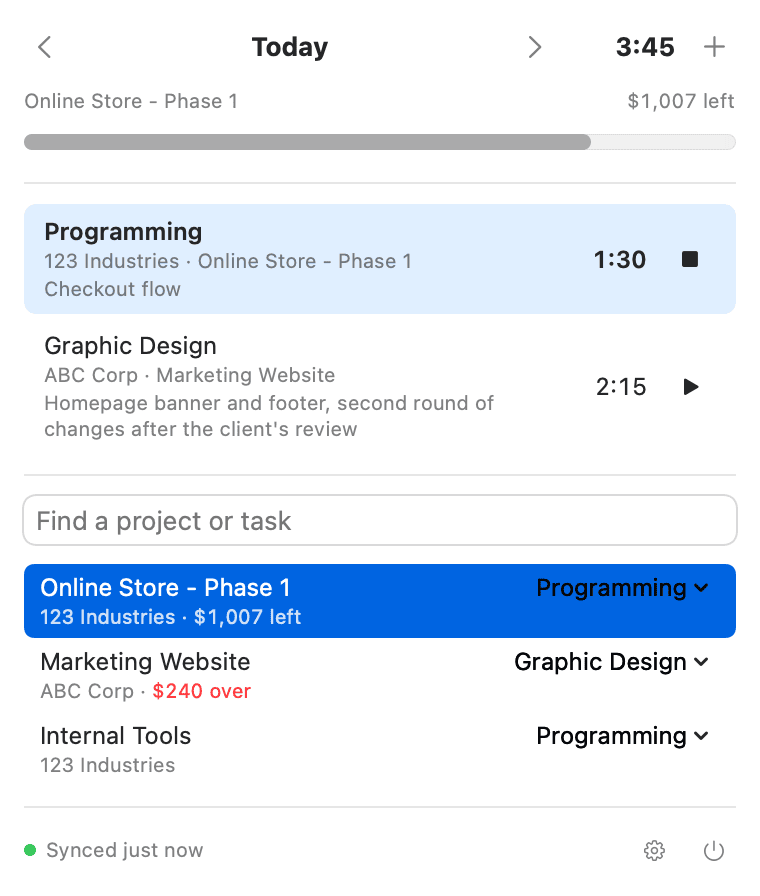
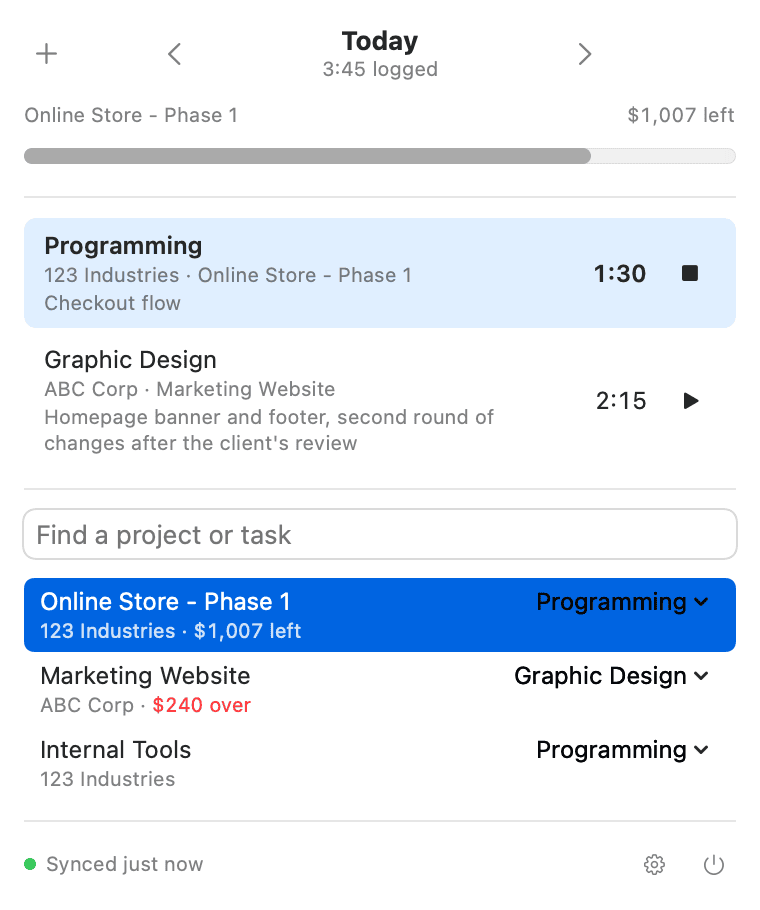
Arrange the Mac's header and Log time form as GNOME's are (#58)
* Arrange the Mac's header and Log time form as GNOME's are

The panel's header now has + at the start and the day centred between its
arrows, with the day's total beneath it as "3:45 logged", as GNOME's window
has had since 2026-11-04. The Log time form puts Project, Task, Time and Notes
in one column form, so the labels share an edge, the controls share another,
and each label sits on its row's first line rather than the middle of two.

* Write the Log time form as a Mac form does

The project menu shows "Client · Project", as its items do, instead of the
project with its client in a caption beneath. The time field says what it takes
in a caption beneath it rather than in a placeholder, which was cut off and read
as a time already typed. Notes are written as an entry's are, by a bubble and
"Add notes", in a borderless field that Tab still reaches from Time.

* Record the Mac's Log time form in the port plan

---------

diff --git a/Apps/Mac/Sources/LogTimeForm.swift b/Apps/Mac/Sources/LogTimeForm.swift
@@ -77,36 +77,60 @@ struct LogTimeForm: View {
                 .font(.caption)
                 .foregroundStyle(.secondary)
 
-            Grid(alignment: .leading, horizontalSpacing: 8, verticalSpacing: 6) {
-                GridRow {
-                    Text("Project").foregroundStyle(.secondary)
-                    projectMenu
+            // The rows GNOME's form has, in its order. The column style lines the
+            // labels up on one edge and the controls on another, each row on its
+            // first line of text.
+            Form {
+                LabeledContent("Project") { projectMenu }
+                LabeledContent("Task") { taskMenu }
+                // What the field takes is said beneath it, as a Mac form does, not
+                // as a placeholder: an example of a time inside a time field reads as
+                // a time already typed, and in a field this narrow it was cut off.
+                LabeledContent("Time") {
+                    VStack(alignment: .leading, spacing: 3) {
+                        TextField("Time", text: $draftHours)
+                            .labelsHidden()
+                            .font(.callout.monospacedDigit())
+                            .frame(width: 64)
+                            .focused($focus, equals: .hours)
+                            .accessibilityHint("Such as 1:30 or 1.5")
+                            .overlay {
+                                if hoursAreUnreadable {
+                                    RoundedRectangle(cornerRadius: 5).stroke(.red.opacity(0.7))
+                                }
+                            }
+                        Text("Such as 1:30 or 1.5")
+                            .font(.caption)
+                            .foregroundStyle(.secondary)
+                    }
                 }
-                GridRow {
-                    Text("Task").foregroundStyle(.secondary)
-                    taskMenu
-                }
-            }
-            .font(.callout)
-
-            HStack(spacing: 6) {
-                TextField("1:30", text: $draftHours)
-                    .textFieldStyle(.roundedBorder)
-                    .font(.callout.monospacedDigit())
-                    .multilineTextAlignment(.trailing)
-                    .frame(width: 58)
-                    .focused($focus, equals: .hours)
-                    .accessibilityLabel("Time, such as 1:30 or 1.5")
+                // Written as an entry's notes are in the list below: "Add notes" by
+                // its bubble, with no label of its own. A field drawn that way rather
+                // than a button that opens one, so Tab still reaches it from Time.
+                LabeledContent {
+                    HStack(spacing: 4) {
+                        Image(systemName: "text.bubble")
+                            .foregroundStyle(.tertiary)
+                        TextField("Notes", text: $notes, prompt: Text("Add notes"))
+                            .labelsHidden()
+                            .textFieldStyle(.plain)
+                            .focused($focus, equals: .notes)
+                    }
+                    .padding(.vertical, 3)
+                    .padding(.horizontal, 4)
                     .overlay {
-                        if hoursAreUnreadable {
-                            RoundedRectangle(cornerRadius: 5).stroke(.red.opacity(0.7))
+                        if focus == .notes {
+                            RoundedRectangle(cornerRadius: 5).stroke(.separator)
                         }
                     }
-                TextField("Notes", text: $notes)
-                    .textFieldStyle(.roundedBorder)
-                    .font(.callout)
-                    .focused($focus, equals: .notes)
+                    .padding(.horizontal, -4)
+                } label: {
+                    EmptyView()
+                }
             }
+            .formStyle(.columns)
+            .textFieldStyle(.roundedBorder)
+            .font(.callout)
             .onSubmit(log)
 
             HStack {
@@ -129,42 +153,32 @@ struct LogTimeForm: View {
         }
     }
 
-    /// The project's name alone, with its client beneath: "Client · Project" in a
-    /// control this narrow was cut off before the project began. The list it opens
-    /// has the room, so its items carry both.
+    /// "Client · Project", in the menu and its items alike: the form's column has
+    /// room for both, which the narrow control it replaced did not.
     private var projectMenu: some View {
-        VStack(alignment: .leading, spacing: 0) {
-            Menu {
-                ForEach(projects) { option in
-                    Button {
-                        choose(option)
-                    } label: {
-                        if option.id == project?.id {
-                            Label(option.label, systemImage: "checkmark")
-                        } else {
-                            Text(option.label)
-                        }
+        Menu {
+            ForEach(projects) { option in
+                Button {
+                    choose(option)
+                } label: {
+                    if option.id == project?.id {
+                        Label(option.label, systemImage: "checkmark")
+                    } else {
+                        Text(option.label)
                     }
                 }
-            } label: {
-                Text(project?.project.name ?? (projects.isEmpty ? "No projects" : "Choose a project"))
-                    .lineLimit(1)
             }
-            .menuStyle(.borderlessButton)
-            // Its own height but not its own width, so a long name is cut short
-            // rather than pushing the form past the panel's edge.
-            .fixedSize(horizontal: false, vertical: true)
-            .disabled(projects.isEmpty)
-            .accessibilityLabel("Project")
-            .accessibilityValue(project?.label ?? "")
-
-            if let client = project?.client?.name, !client.isEmpty {
-                Text(client)
-                    .font(.caption)
-                    .foregroundStyle(.secondary)
-                    .lineLimit(1)
-            }
+        } label: {
+            Text(project?.label ?? (projects.isEmpty ? "No projects" : "Choose a project"))
+                .lineLimit(1)
         }
+        .menuStyle(.button)
+        // Its own height but not its own width, so a long name is cut short
+        // rather than pushing the form past the panel's edge.
+        .fixedSize(horizontal: false, vertical: true)
+        .disabled(projects.isEmpty)
+        .accessibilityLabel("Project")
+        .accessibilityValue(project?.label ?? "")
     }
 
     /// A project with one task has nothing to choose, so it reads as a label, as it
@@ -189,7 +203,7 @@ struct LogTimeForm: View {
                 Text(task?.name ?? "Choose a task")
                     .lineLimit(1)
             }
-            .menuStyle(.borderlessButton)
+            .menuStyle(.button)
             // Its own height but not its own width, so a long name is cut short
             // rather than pushing the form past the panel's edge.
             .fixedSize(horizontal: false, vertical: true)

diff --git a/Apps/Mac/Sources/DayView.swift b/Apps/Mac/Sources/DayView.swift
@@ -207,47 +207,11 @@ struct DayView: View {
         confirmingDelete = entry.id
     }
 
+    /// Arranged as GNOME's header is: + at the start, and the day centred between
+    /// its arrows with the day's total beneath it, and on any other day a way back
+    /// to today.
     private var header: some View {
-        HStack {
-            Button {
-                Task { await tracker.shiftDay(by: -1) }
-            } label: {
-                Image(systemName: "chevron.left")
-                    .frame(width: 22, height: 22)
-            }
-            .buttonStyle(.borderless)
-            .accessibilityLabel("Previous day")
-            .contentShape(.rect)
-            .keyboardShortcut(.leftArrow, modifiers: .command)
-
-            VStack(spacing: 0) {
-                Text(dayTitle)
-                    .font(.headline)
-                if !tracker.isToday {
-                    Button("Back to today") {
-                        Task { await tracker.goToToday() }
-                    }
-                    .buttonStyle(.link)
-                    .font(.caption)
-                }
-            }
-            .frame(maxWidth: .infinity)
-
-            Button {
-                Task { await tracker.shiftDay(by: 1) }
-            } label: {
-                Image(systemName: "chevron.right")
-                    .frame(width: 22, height: 22)
-            }
-            .buttonStyle(.borderless)
-            .accessibilityLabel("Next day")
-            .contentShape(.rect)
-            .keyboardShortcut(.rightArrow, modifiers: .command)
-
-            Text(tracker.totalHours.formattedHours(format))
-                .font(.headline.monospacedDigit())
-                .frame(minWidth: 52, alignment: .trailing)
-
+        HStack(spacing: 0) {
             // Opens the form rather than toggling it, so a second press does not
             // throw away what was typed.
             Button {
@@ -263,6 +227,61 @@ struct DayView: View {
             .accessibilityLabel("Log time")
             .contentShape(.rect)
             .keyboardShortcut("n")
+
+            Spacer(minLength: 0)
+
+            HStack(spacing: 6) {
+                Button {
+                    Task { await tracker.shiftDay(by: -1) }
+                } label: {
+                    Image(systemName: "chevron.left")
+                        .frame(width: 22, height: 22)
+                }
+                .buttonStyle(.borderless)
+                .accessibilityLabel("Previous day")
+                .contentShape(.rect)
+                .keyboardShortcut(.leftArrow, modifiers: .command)
+
+                VStack(spacing: 0) {
+                    Text(dayTitle)
+                        .font(.headline)
+                        .lineLimit(1)
+                    HStack(spacing: 6) {
+                        Text("\(tracker.totalHours.formattedHours(format)) logged")
+                            .monospacedDigit()
+                            .foregroundStyle(.secondary)
+                        if !tracker.isToday {
+                            Button("Back to today") {
+                                Task { await tracker.goToToday() }
+                            }
+                            .buttonStyle(.link)
+                        }
+                    }
+                    .font(.caption)
+                    .lineLimit(1)
+                }
+                // A fixed width, so the arrows stay put as the day's name and total
+                // change length: clicking back twice would otherwise miss the
+                // second time.
+                .frame(width: 170)
+
+                Button {
+                    Task { await tracker.shiftDay(by: 1) }
+                } label: {
+                    Image(systemName: "chevron.right")
+                        .frame(width: 22, height: 22)
+                }
+                .buttonStyle(.borderless)
+                .accessibilityLabel("Next day")
+                .contentShape(.rect)
+                .keyboardShortcut(.rightArrow, modifiers: .command)
+            }
+
+            Spacer(minLength: 0)
+
+            // As wide as +, so the day is centred in the panel rather than in what
+            // + leaves of it.
+            Color.clear.frame(width: 22, height: 22)
         }
     }
 

diff --git a/docs/gnome-port.md b/docs/gnome-port.md
@@ -544,7 +544,13 @@ it on Ubuntu 26.04, the release Hostess runs.
   beside the full date had crowded it. The day has a fixed width so the arrows do
   not move as its name changes. Only + shares the header, at the start; Settings
   is in the footer, as on the Mac, because with it and the window's own buttons
-  the day could not be centred at the window's usual width.
+  the day could not be centred at the window's usual width. On 2026-11-25 the
+  Mac's panel took this arrangement too, after Peter found the two headers
+  different: + at the start, and the day's total as "3:45 logged" beneath the day
+  instead of beside the arrows. Its Log time form also took GNOME's rows (Project,
+  Task, Time, Notes), as a Mac form: the labels in one column and the controls in
+  another, with the example times beneath the field rather than in it, and notes
+  written as an entry's are, by "Add notes" with no label of its own.
 - **Not in this phase:** the power source (the tracker assumes mains power, which
   Hostess is), editing notes or hours (phase 8), presence and its prompt, and the
   peers field (phase 7).
@@ -649,8 +655,9 @@ an entry and logging time both worked.
   time are edited in place.
 - **A + button in the panel's header, or ⌘N, logs time** in a form that opens
   under the header, on the day on screen when Log is pressed
-  ([`LogTimeForm`](../Apps/Mac/Sources/LogTimeForm.swift)). It shows the project's
-  name with its client beneath, as GNOME's row does.
+  ([`LogTimeForm`](../Apps/Mac/Sources/LogTimeForm.swift)). It showed the project's
+  name with its client beneath, as GNOME's row does, until 2026-11-25: the form's
+  column has room for "Client · Project", which the menu now shows as its items do.
 
 ### Phase 9: presence through Harvest, replacing the tailnet (core; Opus)
 
